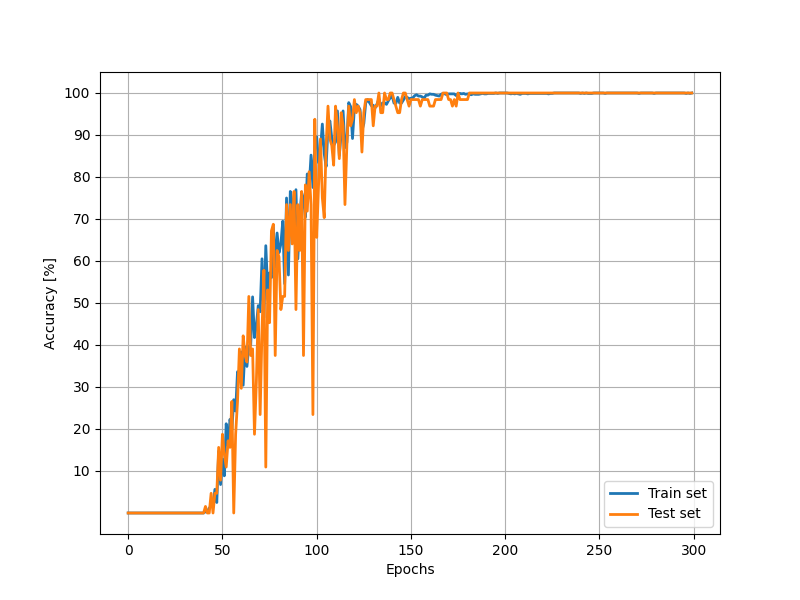
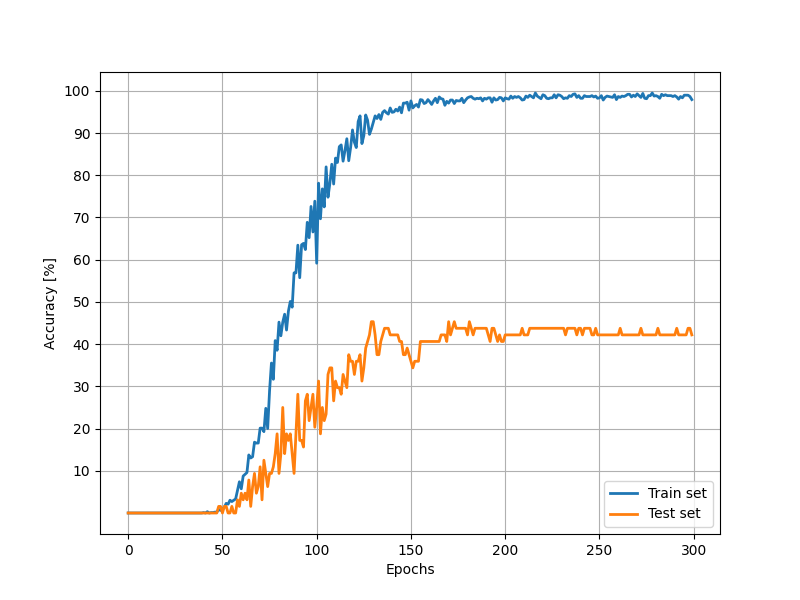
add resnext

Changed region(s): [[0.0938, 0.15, 0.875, 0.87]]

diff --git a/CNNEncoder.py b/CNNEncoder.py
@@ -3,6 +3,7 @@ import torch.nn as nn
 from torchvision.models import resnet18, ResNet18_Weights
 from torchvision.models import convnext_small, ConvNeXt_Small_Weights
 from torchvision.models import efficientnet_b4, EfficientNet_B4_Weights
+from torchvision.models import resnext50_32x4d, ResNeXt50_32X4D_Weights
 
 
 class CNNEncoder(nn.Module):
@@ -17,30 +18,39 @@ class CNNEncoder(nn.Module):
         if self.cnn_model == 0:
             self.cnn = resnet18(weights=ResNet18_Weights.DEFAULT)
             if self.num_channels == 1:
-                self.cnn.conv1 = nn.Conv2d(1, 64, kernel_size=(7, 7), stride=(2, 2), padding=(3, 3), bias=False)
+                self.cnn.conv1 = nn.Conv2d(1, 64, kernel_size=(7, 7), stride=(2, 2),
+                                           padding=(3, 3), bias=False)
             self.encode = self.rnn_encoder
         elif self.cnn_model == 1:
             self.cnn = convnext_small(weigths=ConvNeXt_Small_Weights)
             if self.num_channels == 1:
                 conv_layer = self.cnn.features[0][0]
-                self.cnn.features[0][0] = nn.Conv2d(1, conv_layer.out_channels, kernel_size=conv_layer.kernel_size,
-                                                    stride=conv_layer.stride, padding=conv_layer.padding,
-                                                    bias=conv_layer.bias is not None)
-                self.encode = self.convnext_encoder
+                self.cnn.features[0][0] = nn.Conv2d(1, conv_layer.out_channels,
+                                                    kernel_size=conv_layer.kernel_size, stride=conv_layer.stride,
+                                                    padding=conv_layer.padding, bias=conv_layer.bias is not None)
+            self.encode = self.convnext_encoder
         elif self.cnn_model == 2:
             self.cnn = efficientnet_b4(weights=EfficientNet_B4_Weights)
             if self.num_channels == 1:
                 conv_layer = self.cnn.features[0][0]
-                self.cnn.features[0][0] = nn.Conv2d(1, conv_layer.out_channels, kernel_size=conv_layer.kernel_size,
-                                                    stride=conv_layer.stride, padding=conv_layer.padding,
-                                                    bias=conv_layer.bias is not None)
-                self.encode = self.efficientnet_encoder
+                self.cnn.features[0][0] = nn.Conv2d(1, conv_layer.out_channels,
+                                                    kernel_size=conv_layer.kernel_size, stride=conv_layer.stride,
+                                                    padding=conv_layer.padding, bias=conv_layer.bias is not None)
+            self.encode = self.efficientnet_encoder
+        elif self.cnn_model == 3:
+            self.cnn = resnext50_32x4d(weights=ResNeXt50_32X4D_Weights)
+            if self.num_channels == 1:
+                conv_layer = self.cnn.conv1
+                self.cnn.conv1 = nn.Conv2d(1, conv_layer.out_channels, kernel_size=conv_layer.kernel_size,
+                                           stride=conv_layer.stride, padding=conv_layer.padding,
+                                           bias=conv_layer.bias is not None)
+            self.encode = self.resnext_encoder
 
         cnn_input_size = self.encode(torch.rand(1, self.num_channels, self.size[0], self.size[1]))
         self.linear = nn.Sequential(
             nn.Linear(cnn_input_size.shape[-1], self.dims),
             nn.GELU(),
-            nn.Dropout(0.2)
+            nn.Dropout(0.5)
         )
 
     def rnn_encoder(self, x):
@@ -54,8 +64,7 @@ class CNNEncoder(nn.Module):
         return x
 
     def convnext_encoder(self, x):
-        x = self.cnn.features[0][0](x)
-        x = self.cnn.features[0][1](x)
+        x = self.cnn.features[0](x)
         x = self.cnn.features[1](x)
         x = self.cnn.features[2](x)
         x = self.cnn.features[3](x)
@@ -71,6 +80,18 @@ class CNNEncoder(nn.Module):
         x = self.cnn.features[3](x)
         x = self.cnn.features[4](x)
         x = self.cnn.features[5](x)
+        x = self.cnn.features[6](x)
+        x = x.view(x.size(0), x.size(1), -1)
+        return x
+
+    def resnext_encoder(self, x):
+        x = self.cnn.conv1(x)
+        x = self.cnn.bn1(x)
+        x = self.cnn.relu(x)
+        x = self.cnn.maxpool(x)
+        x = self.cnn.layer1(x)
+        x = self.cnn.layer2(x)
+        x = self.cnn.layer3(x)
         x = x.view(x.size(0), x.size(1), -1)
         return x
 

diff --git a/main.py b/main.py
@@ -73,6 +73,7 @@ def main():
               train_original_targets_list[:4])
         print("Test decoded outputs: ", test_decoded_outputs[:4], " Test original targets: ",
               test_original_targets_list[:4])
+
         scheduler.step(test_running_loss)
 
     lists = {
